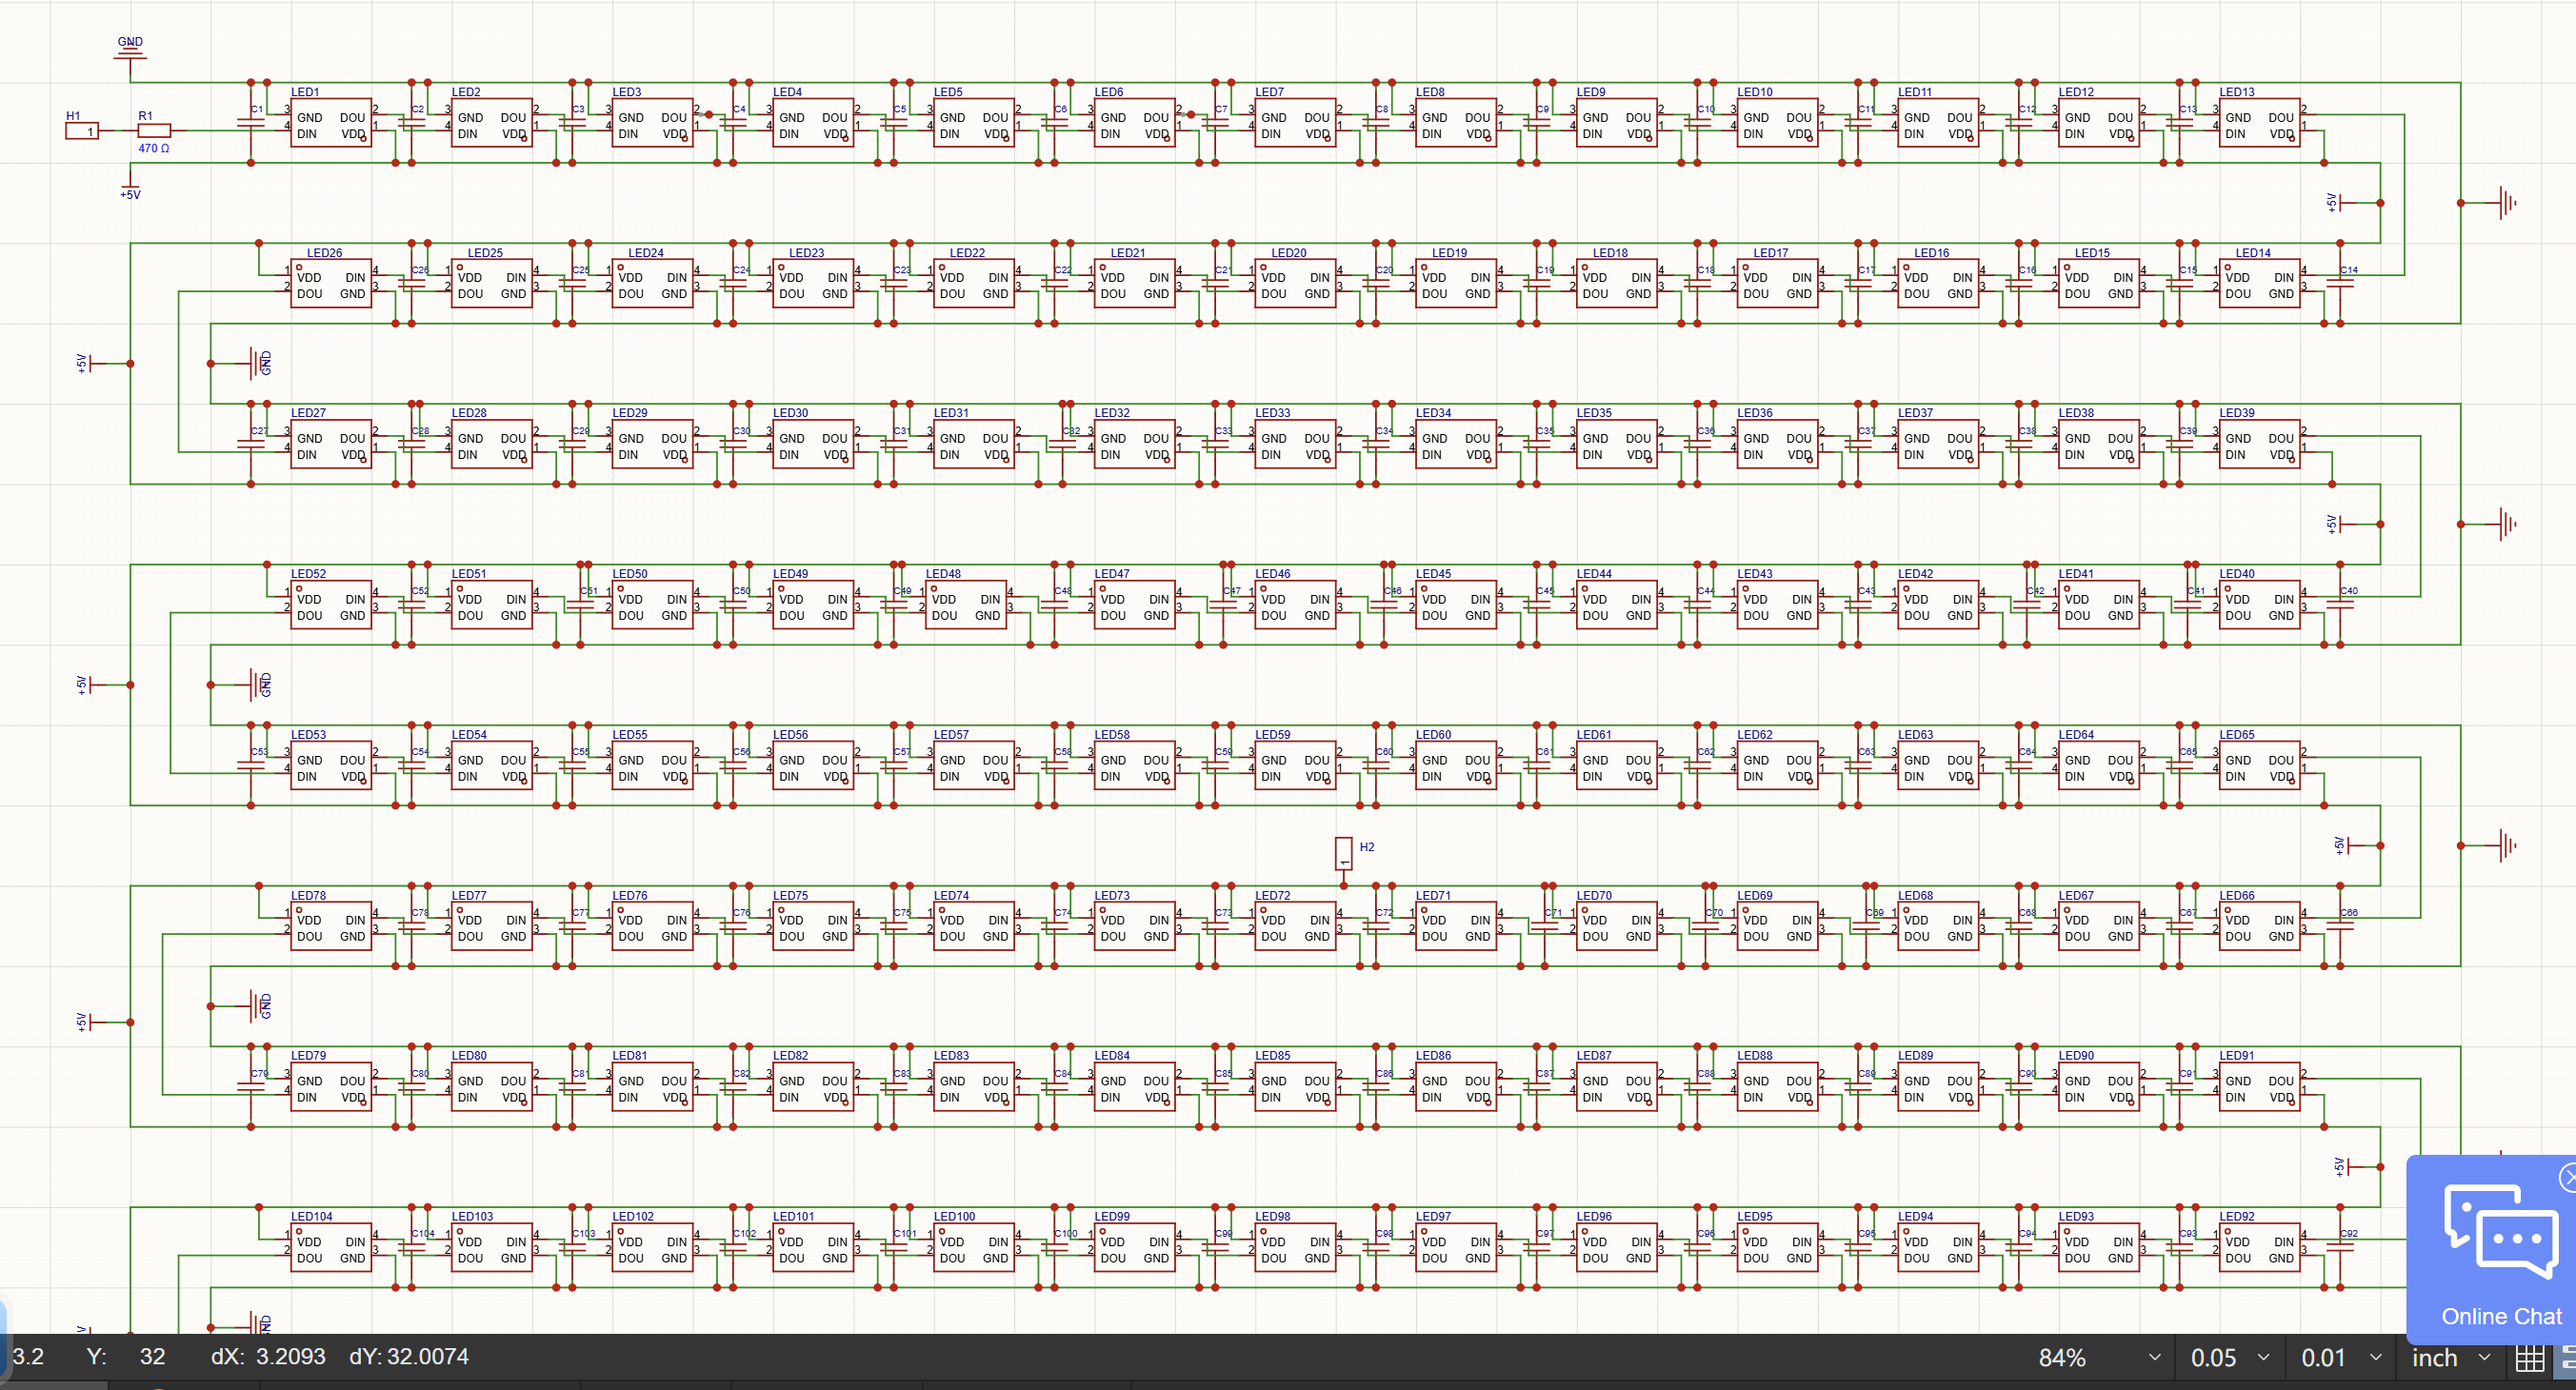
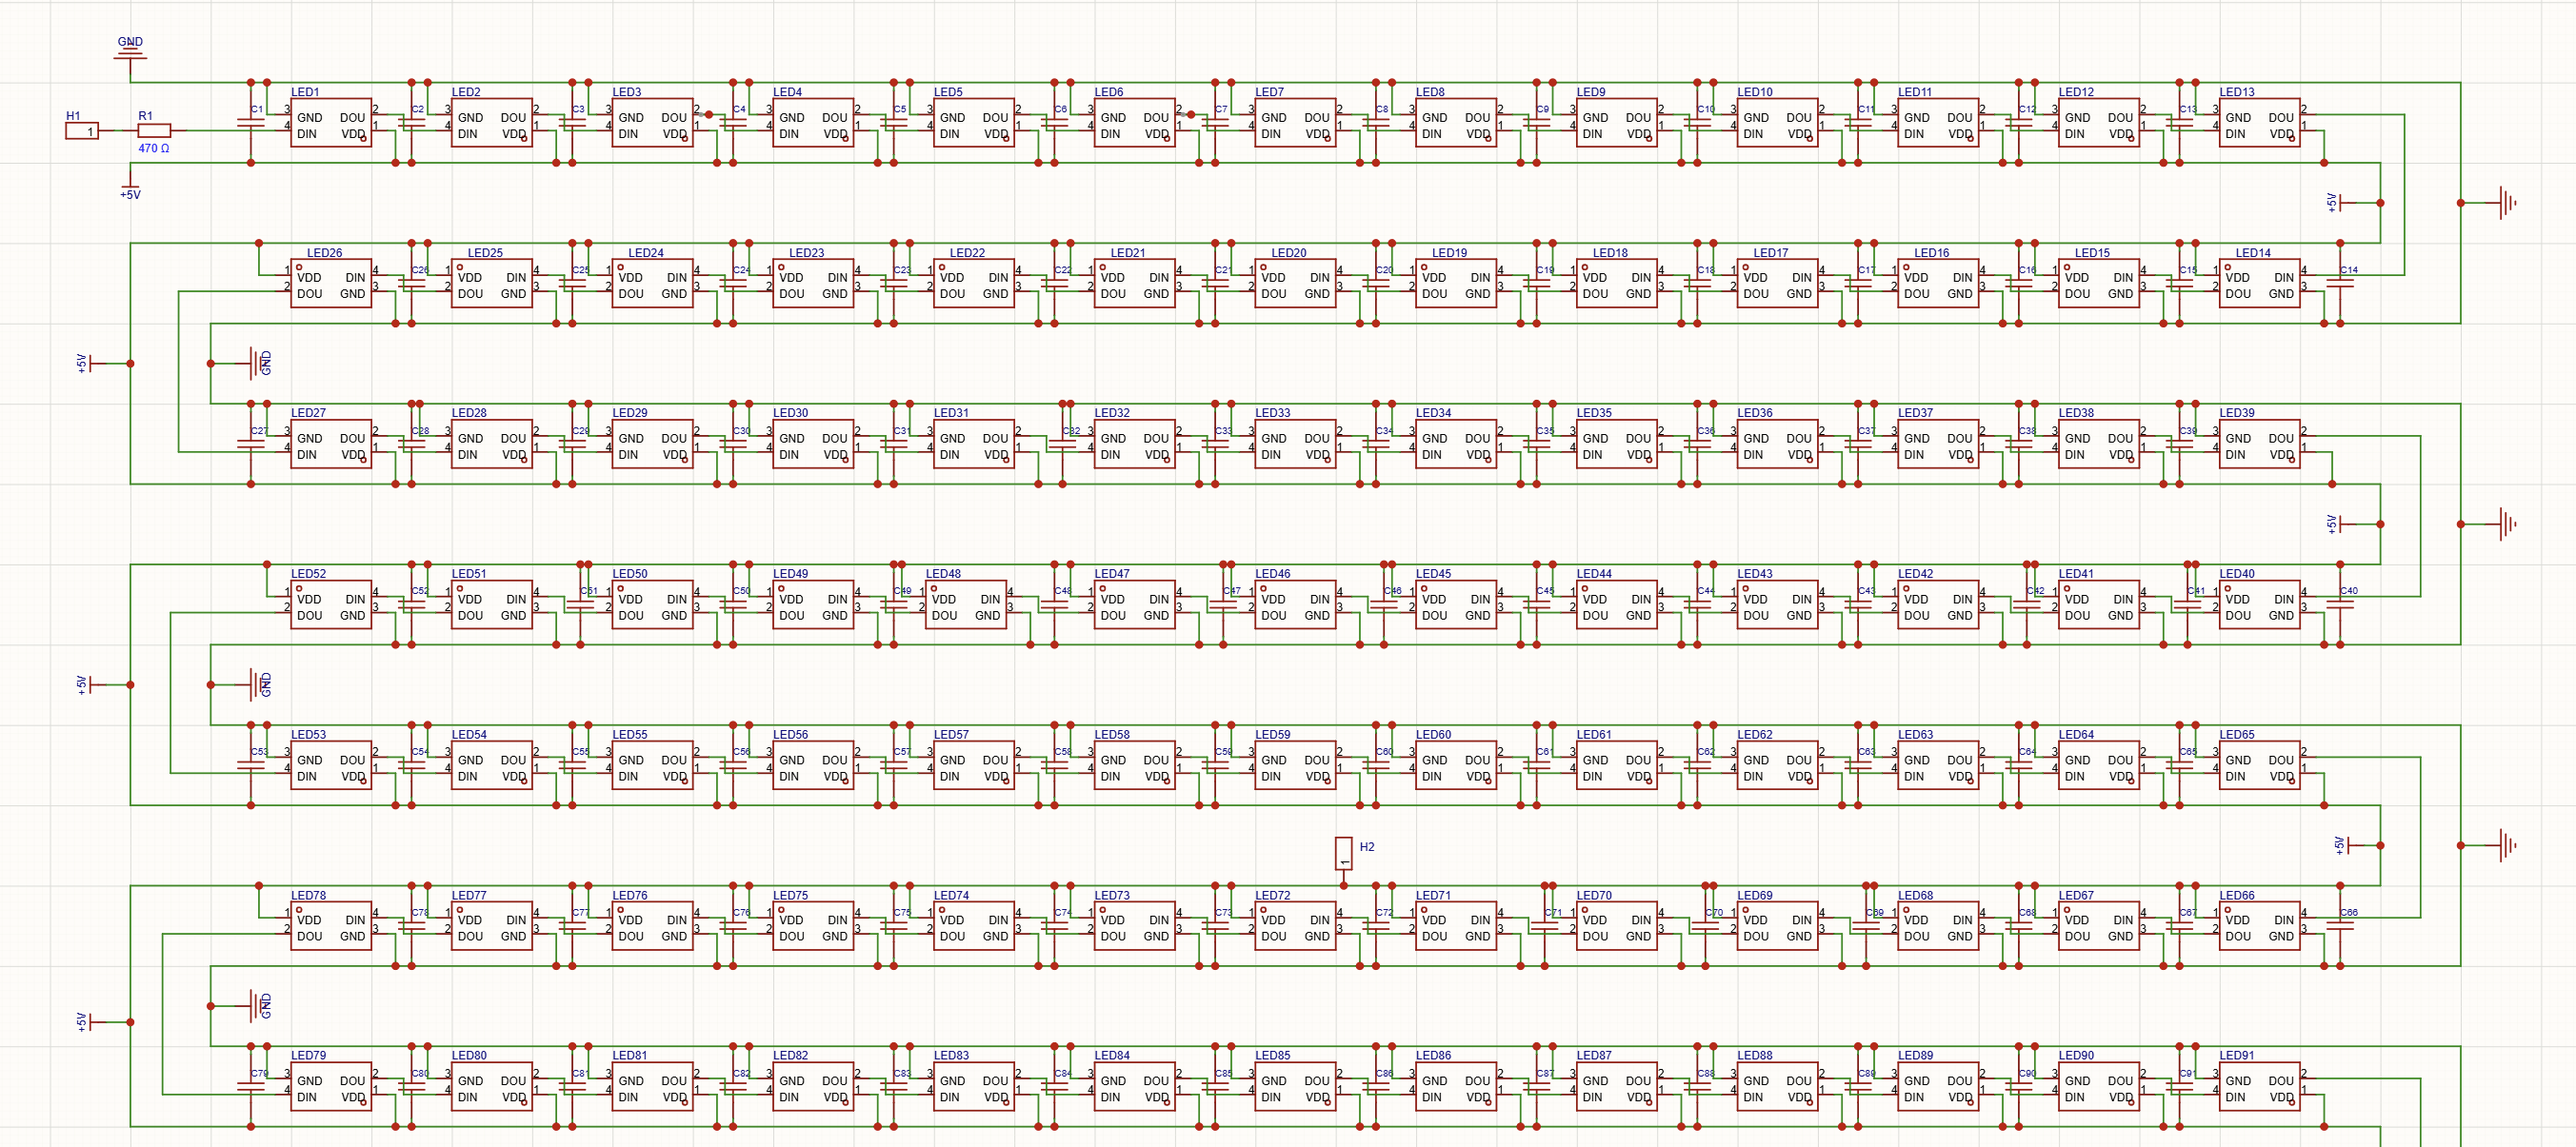
Correct panel geometry to 13x18, fix board docs, add clean gerber renders
- grid is 13 columns x 18 rows, not 18x13 (verified against LED
  placement in the fab data: X 10-250mm and Y 10 to -330mm, 20mm pitch)
- firmware MATRIX_WIDTH/HEIGHT corrected to match, so the serpentine
  XY mapping now lands on the right pixels
- H2 is a +5V through-hole pad at board centre, not a mounting hole;
  the board has 248 +5V pads and no mounting holes at all
- note the two sided assembly: LEDs on top, caps and R1 on the bottom
- replace editor screenshots with full board renders from the gerbers,
  and crop the UI overlay off the schematic export
- add R1 to the BOM

Changed region(s): [[0.0, 0.0307, 1.0, 1.0], [0.0311, 0.5834, 0.0621, 0.6141]]

diff --git a/README.md b/README.md
@@ -1,45 +1,57 @@
 # LED-PANNEL
 
-an 18x13 addressable RGB LED panel, built to be driven pixel by pixel from an external controller
+a 13x18 addressable RGB LED panel, built to be driven pixel by pixel from an external controller
 
 the project zine is in [zine.pdf](zine.pdf).
 
 ![PCB top view](images/pcb-top.png)
 
+*the top side of the board, all 234 leds, rendered from the gerbers in `PCB_FILES/`.*
+
 ## What it does
 
-LED-PANNEL is a big PCB carrying 234 individually addressable RGB LEDs wired up in an 18 column by 13 row grid. every LED sits on one continuous single-wire data chain, so one controller pin can drive all 234 pixels independently, full RGB, each one on its own. the board itself is just the panel, it has no brain on it, you bring the controller.
+LED-PANNEL is a big PCB carrying 234 individually addressable RGB LEDs wired up in a 13 column by 18 row grid. every LED sits on one continuous single-wire data chain, so one controller pin can drive all 234 pixels independently, full RGB, each one on its own. the board itself is just the panel, it has no brain on it, you bring the controller.
 
 the name comes from the actual goal here: watching a movie the way it's meant to be seen, at real framerate, on a panel dense enough to actually output video and not just slow ambient patterns. 100+fps is the target for the finished system, not a measured result yet, since the board hasn't been built.
 
+that target does fit inside the protocol though. a WS2812B-style chain clocks at 800kHz, so 234 LEDs x 24 bits = 5616 bits x 1.25µs = 7.02ms per frame, plus the reset gap at the end, which puts the ceiling around 141fps. that's arithmetic off the protocol timing, not a bench measurement.
+
 ## Why i made it
 
-i wanted a real reason to learn pcb design past a single blinky led board, so i picked something with an actual constraint to solve: pack as many individually addressable pixels as i could onto one board that's still manufacturable, route the data chain sanely across all of them, and get the power distribution right so it doesn't sag under load. an 18x13 matrix made routing and power actually hard, and gives me something genuinely useful afterward instead of just a demo.
+i wanted a real reason to learn pcb design past a single blinky led board, so i picked something with an actual constraint to solve: pack as many individually addressable pixels as i could onto one board that's still manufacturable, route the data chain sanely across all of them, and get the power distribution right so it doesn't sag under load. a 13x18 matrix made routing and power actually hard, and gives me something genuinely useful afterward instead of just a demo.
 
 ## How it works
 
 each led footprint has 4 pads: +5V, DIN, DOUT, GND. LED1's DOUT feeds LED2's DIN, LED2's DOUT feeds LED3's DIN, and so on, all 234 LEDs wired as one chain. the routing between rows snakes back and forth (serpentine) so the trace between the last led in a row and the first led in the next row stays short instead of running all the way back across the board every time.
 
+row 1 is LED1 to LED13 running left to right, row 2 is LED14 to LED26 running right to left, row 3 goes left to right again, and it keeps alternating like that down to LED234 in the bottom left corner. so for a pixel at column x, row y (both counting from 0 at the top left), the index in the chain is `y*13 + x` on even rows and `y*13 + (12-x)` on odd rows.
+
 there's a single 470Ω resistor (R1) between the data-in pad (H1) and LED1's DIN, which protects the first led in the chain from signal reflections, pretty standard for this kind of setup. every led also gets its own decoupling cap right next to it.
 
-there's no connector on this board, no mcu either. H1 is a single solder pad for your controller's data wire (through R1, into LED1). power gets soldered straight onto the shared +5V/GND rails, there's no dedicated pad for it. H2 is the board's one mounting hole.
+it's a two sided assembly. the 234 leds sit on the top face, and all 234 decoupling caps plus R1 are on the back, so the front stays a clean grid of nothing but pixels. both layers are flooded with copper pour for the power rails.
+
+there's no connector on this board, and no mcu either. H1 is a single solder pad for your controller's data wire, which goes through R1 into LED1. for +5V there are 248 plated through-hole pads scattered across the whole board, roughly one beside every led plus extras at the row ends, including H2 in the dead centre. that many injection points is deliberate, it lets you feed 5V in at several places at once instead of dragging all the current in from one corner. GND has no dedicated through-hole pad, you solder it to the ground pour.
+
+there are no mounting holes. the largest hole anywhere on the board is 1.0mm, which is a power pad, not something you can put a screw through, so plan on standoffs, tape or a frame if you want to hang it.
 
 ## What's on the board
 
-- 234x addressable RGB LEDs, 20mm pitch, 18 columns x 13 rows
-- 234x decoupling caps, one per led
-- 1x 470Ω resistor (R1) on the data line
-- 1x data-in pad (H1)
-- 1x mounting hole (H2)
-- 2-layer board, 260mm x 360mm
+- 234x addressable RGB LEDs (top side), 20mm pitch, 13 columns x 18 rows
+- 234x decoupling caps (bottom side), one per led
+- 1x 470Ω resistor (R1, bottom side) on the data line
+- 1x data-in pad (H1, top left)
+- 248x plated through-hole +5V pads, H2 among them
+- 2-layer board, 260mm x 360mm, portrait, with roughly a 10mm border around the 240 x 340mm led area
 
 ## Hardware
 
 ### Schematic
 ![Schematic](images/schematic.png)
 
+the export above covers LED1 through LED91. the remaining rows are the exact same repeating pattern, so it's cut off rather than shrunk down to unreadable.
+
 ### PCB top
-![PCB top](images/pcb-top.png)
+shown at the top of this readme.
 
 ### PCB bottom
 ![PCB bottom](images/pcb-bottom.png)
@@ -51,7 +63,7 @@ board files (gerbers) are in `PCB_FILES/LED_PANNEL_PCB.zip`.
 
 ## Firmware
 
-there's no firmware on the panel itself since there's no mcu on it, `firmware/led_pannel_controller.ino` is a starting-point sketch for an external ESP32 controller using FastLED, mapped to the real serpentine chain order. it hasn't been tested on real hardware yet since the board isn't built, and a couple things are still worth double checking once it is: whether the led protocol is really WS2812B-style timing, and whether a 3.3V esp32 gpio needs a level shifter to drive the data line reliably.
+there's no firmware on the panel itself since there's no mcu on it, `firmware/led_pannel_controller.ino` is a starting-point sketch for an external ESP32 controller using FastLED, mapped to the real 13x18 serpentine chain order. it hasn't been tested on real hardware yet since the board isn't built, and a couple things are still worth double checking once it is: whether the led really wants WS2812B timing and GRB order, and whether a 3.3V esp32 gpio needs a level shifter to drive the data line reliably.
 
 ### flashing it
 
@@ -59,21 +71,22 @@ open the sketch in arduino ide, install the **esp32 by Espressif** board package
 
 ## How to use it
 
-1. wire +5V, GND, and DATA (through R1, into H1) from your controller/power supply to the panel.
+1. wire DATA from your controller to H1, and +5V and GND from your supply to the panel. use several of the +5V pads spread across the board, not just one, and give GND a few solid connections to the pour as well.
 2. flash `firmware/led_pannel_controller.ino` to your controller.
-3. power the panel from a 5V supply sized for real measured draw, not your controller board's onboard regulator, 234 LEDs at full white pulls a lot more current than usb can give.
+3. power the panel from a 5V supply sized for real measured draw, not your controller board's onboard regulator. at the usual 60mA per led for full white, 234 leds works out to about 14A, which is far past anything usb will give you.
 4. run the sketch's sweep pattern first to check every led lights up in the right spot before doing anything fancier.
 
 ## BOM
 
-full bom is in `BOM.csv`. led is a XINGLIGHT XL-5050RGBC-2812B (LCSC C2843785), decoupling cap is a Samsung CL10B104KB8NNNC 100nF 0603 (LCSC C1591), at 234 qty each that's $11.37 for the leds and $3.51 for the caps, about $14.88 total for parts. that doesn't include the pcb itself, this is a 260 x 360mm board so get a real quote from your fab house since it's bigger than the usual cheap prototyping size.
+full bom is in `BOM.csv`. led is a XINGLIGHT XL-5050RGBC-2812B (LCSC C2843785), decoupling cap is a Samsung CL10B104KB8NNNC 100nF 0603 (LCSC C1591), at 234 qty each that's $11.37 for the leds and $3.51 for the caps, so $14.88 for the priced parts. R1 is a single generic 470Ω 0603 resistor, a cent or so, and it isn't in that subtotal. none of it includes the pcb, and this is a 260 x 360mm board so get a real quote from your fab house since it's bigger than the usual cheap prototyping size.
 
 ## Assembly
 
 1. order the pcb using the gerber zip in `PCB_FILES/LED_PANNEL_PCB.zip` (2-layer, 260 x 360mm, confirm your fab house can do this size).
-2. solder the 234 leds and their decoupling caps, plus R1, using the silkscreen as a guide.
-3. check the full data chain and the +5V/GND rails with a multimeter before powering up.
-4. wire +5V, GND, and DATA to your external controller.
-5. power up at low brightness first and check every led addresses correctly before running it at full brightness.
+2. solder the 234 leds on the top side, using the silkscreen as a guide.
+3. flip the board and solder the 234 decoupling caps and R1 on the bottom side.
+4. check the full data chain and the +5V/GND rails with a multimeter before powering up.
+5. wire DATA to H1 and +5V/GND to the panel from your external controller and supply.
+6. power up at low brightness first and check every led addresses correctly before running it at full brightness.
 
 made by Rudra Puri, 17, India, for Hack Club.
